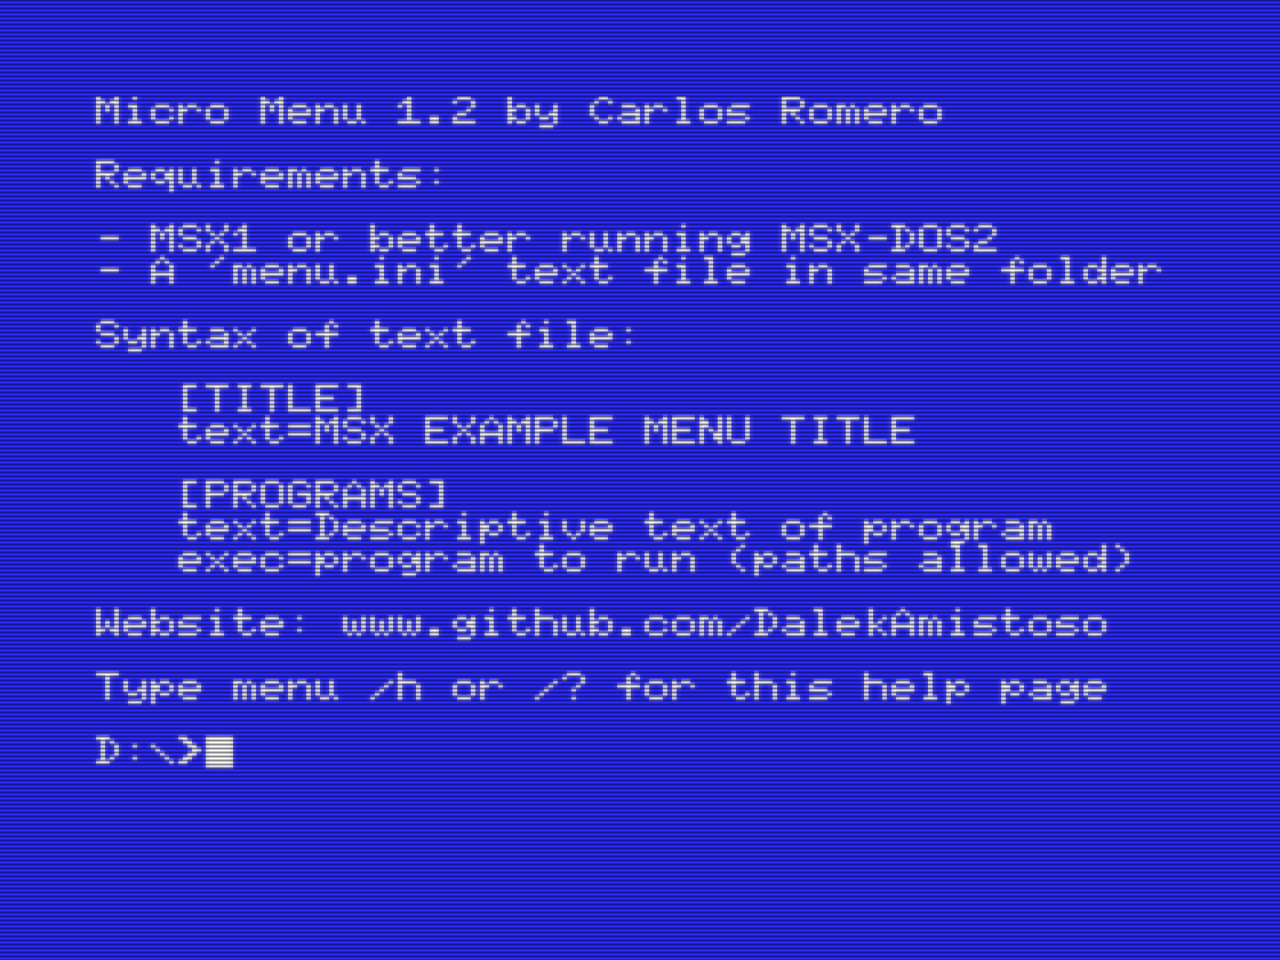
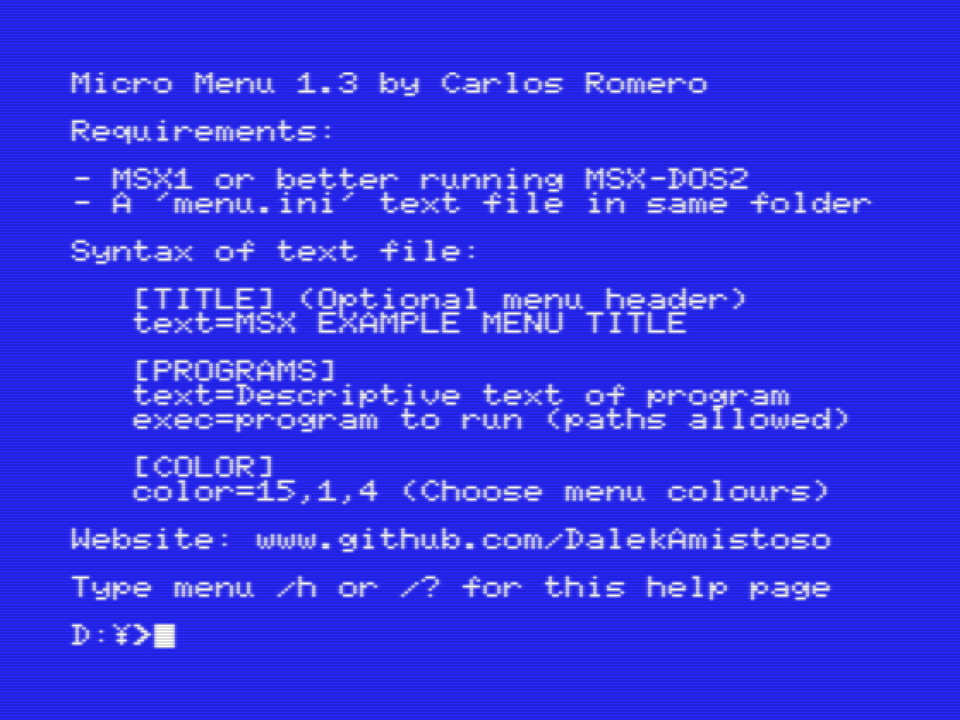
1.3 Binaries

diff --git a/README.md b/README.md
@@ -14,6 +14,7 @@ Configurable program launcher for  **MSX-DOS 2**
 
 - **Customizable setup editing a single text file** (`MENU.INI`): Easily add/remove/rename programs
 - **Customizable Menu title**: Automatically selfcenters text in the header of the menu
+- **Customizable color schema**: Choose your favorite colours
 - **Nice graphic alike text menu box** centered according longest text in item list
 - **Automatic MSX1 / MSX2 or better video detection**:
   - MSX2 or better: 80 width screen & selected option with a nice **real inverted background** (vía VRAM)
@@ -24,6 +25,8 @@ Configurable program launcher for  **MSX-DOS 2**
   - `←` / `→`: Moves quickly between multiple pages of options
   - `ENTER`: Executes the current highlighted program
   - `ESC`: Exits from program and returns to MSX-DOS2.
+- **Launches programs from their own folder**: if `exec=` includes a path, MicroMenu changes into that directory (via MSX-DOS2) before running the program, so programs that expect their own data files in the current directory work correctly.
+- **Optional custom screen colors** via a `[COLOR]` section in `MENU.INI` (MSX `COLOR ink,paper,border` format). The original colors are restored automatically before the selected program runs, and on exit.
 - **No annoying "keyclicks"** While you are in the launcher, it will reactivate when exiting.
 - **Highly compact**: Barely more than 3KB of disk space only two files, executable (~3,5kb & menu.ini
 - **No graphic garbage or memory leaks behind**: VRAM+RAM fully cleaned, no hit on perfomance/free memory 
@@ -38,15 +41,18 @@ The file must be **in the same folder** that main executable (MENU.COM)
 Format of the file:
 
 ```ini
-[TITLE]       <-----FIELD THAT DEFINES THE TEXT HEADER ([TITULO] in 1.0)
+[TITLE]       <-----OPTIONAL FIELD, DEFINES THE TEXT HEADER ([TITULO] in 1.0)
 text=MSXMENU  <-----TEXT HEADER OF THE MENU PROGRAM
 
-[PROGRAMS]    <-----FIELD THAT DEFINES THE START OF THE LIST OF PROGRAMS (IN ORDER FROM UP TO DOWN)
-text=Run Device Info       <-----DESCRIPTION OF THE PROGRAM 
-exec=\devinfo.com          <-----FILE TO EXECUTE AND PATH (SUPPORTS RELATIVE AND FIXED PATHS)
+[COLOR]                <-----OPTIONAL FIELD, CUSTOM SCREEN COLORS
+color=15,1,1           <-----Ink,Paper,Border (MSX COLOR STANDARD VALUES 0-15)
 
-text=Run BASIC             <-----DESCRIPTION OF THE SECOND PROGRAM TO SHOW
-exec=BASIC                 <-----FILE TO EXECUTE AND PATH OF THE PROGRAM DESCRIBED IN THE PREVIOUS LINE
+[PROGRAMS]    <-----FIELD THAT DEFINES THE START OF THE LIST OF PROGRAMS (IN ORDER FROM UP TO DOWN)
+text=Run Device Info   <-----DESCRIPTION OF THE PROGRAM 
+exec=\devinfo.com      <-----FILE TO EXECUTE AND PATH (SUPPORTS RELATIVE AND FIXED PATHS)
+
+text=Run BASIC         <-----DESCRIPTION OF THE SECOND PROGRAM TO SHOW
+exec=BASIC             <-----FILE TO EXECUTE AND PATH OF THE PROGRAM DESCRIBED IN THE PREVIOUS LINE
 
 text=Run a game            <----- THE THIRD ONE AND SO ....
 exec=a:\games\miracle.com
@@ -57,8 +63,11 @@ exec=a:\games\miracle.com
 | Section      | Mandatory | Description                                                       |
 |--------------|-----------|-------------------------------------------------------------------|
 | `[TITLE]`    | No        | DEFINED TEXT HEADER OF THE MENU CENTERED AT THE TOP               |
+| `[COLOR]`    | No        | DEFINED TEXT COLOURS USING "COLOR" MSX COMMAND SYNTAX             |
 | `[PROGRAMS]` | Yes       | SECTION WITH THE LIST OF PROGRAMS AS MENTIONED EARLIER            |
 
+If [TITLE] is not present menu will show without header block, only footer block
+If [COLOR] is not present menu will be shown with current system colours
 Remember that each programs is defined with **TWO consecutive lines**:
 
 ```ini
